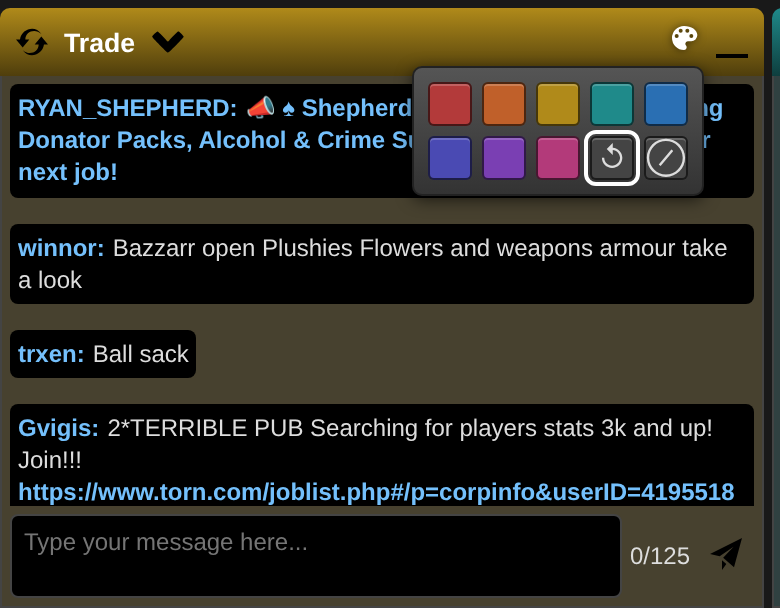
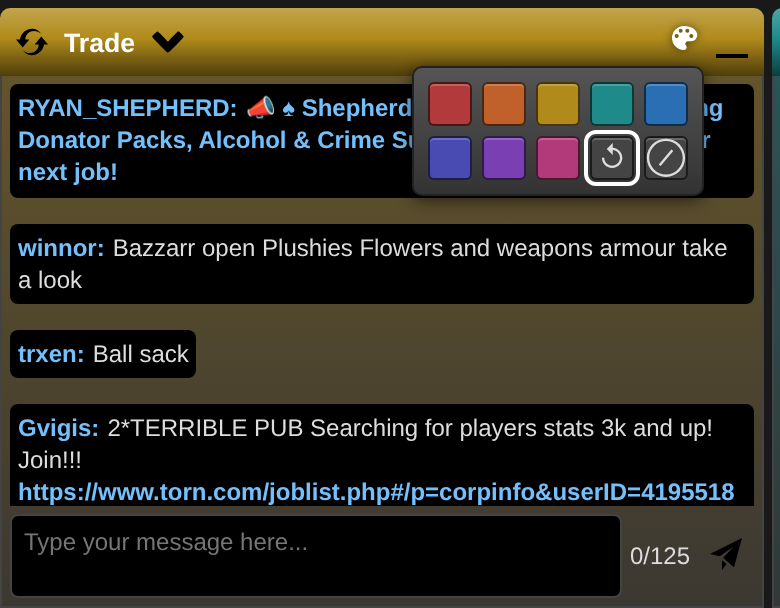
Colored chats get a soft shine on the header and a gradient behind the messages

Changed region(s): [[0.0, 0.0, 1.0, 0.0938], [0.0, 0.125, 0.5231, 0.2188], [0.8923, 0.125, 0.9846, 0.2188]]

diff --git a/Torn Colored Chats/torn-colored-chats.user.js b/Torn Colored Chats/torn-colored-chats.user.js
@@ -1,7 +1,7 @@
 // ==UserScript==
 // @name         Torn Colored Chats
 // @namespace    kamiren.torn-colored-chats
-// @version      1.0.0
+// @version      1.0.1
 // @description  Gives each Torn group chat (faction, company, global, trade and more) its own color. Private chats stay as they are. A palette icon in the chat header changes the color.
 // @author       KamiRen [2805199]
 // @license      MIT
@@ -68,11 +68,12 @@
       const w = '#chatRoot [id="' + esc(id) + '"]';
       const h = w + ' ' + HEAD + ':not([class*="message___"])';
       css +=
-        h + '{background:linear-gradient(' + c + ',' + mix(c, '#000000', 0.45) + ')!important}' +
+        h + '{background:linear-gradient(' + mix(c, '#ffffff', 0.78) + ',' + c + ' 45%,' + mix(c, '#000000', 0.45) + ')!important}' +
         h + ' [class*="actionButton___"]:hover{background:rgba(255,255,255,.12)!important}' +
-        'body.dark-mode ' + w + '{--chat-color-background:' + mix(c, '#333333', 0.16) + '}' +
-        'body:not(.dark-mode) ' + w + '{--chat-color-background:' + mix(c, '#f2f2f2', 0.12) + '}' +
-        w + ' [class*="content___"]{background-color:var(--chat-color-background)!important}';
+        'body.dark-mode ' + w + '{--chat-color-background:' + mix(c, '#333333', 0.1) + '}' +
+        'body:not(.dark-mode) ' + w + '{--chat-color-background:' + mix(c, '#f2f2f2', 0.06) + '}' +
+        'body.dark-mode ' + w + ' [class*="content___"]{background:linear-gradient(' + mix(c, '#333333', 0.38) + ',' + mix(c, '#333333', 0.06) + ')!important}' +
+        'body:not(.dark-mode) ' + w + ' [class*="content___"]{background:linear-gradient(' + mix(c, '#f2f2f2', 0.22) + ',' + mix(c, '#f2f2f2', 0.03) + ')!important}';
     }
     if (!sheet) {
       sheet = document.createElement('style');
